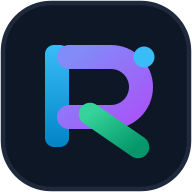
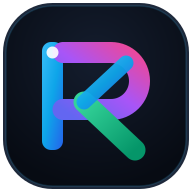
Deploy master R-K interlocking reverse loop brand identity and vector assets

diff --git a/src/components/Chrome.jsx b/src/components/Chrome.jsx
@@ -4,11 +4,12 @@ import { href } from '../lib/catalog';
 export function Logo() {
   return <>
     <span className="logo-symbol" aria-hidden="true">
-      <svg viewBox="0 0 32 32" width="28" height="28" fill="none">
-        <rect x="6" y="6" width="4" height="20" rx="1.5" fill="#38bdf8"/>
-        <path d="M10 9h8a5.5 5.5 0 0 1 0 11H10" stroke="#818cf8" strokeWidth="4" strokeLinecap="round" strokeLinejoin="round"/>
-        <path d="m14 19 8.5 7" stroke="#34d399" strokeWidth="3.8" strokeLinecap="round"/>
-        <circle cx="23.5" cy="9" r="1.8" fill="#38bdf8"/>
+      <svg viewBox="0 0 128 128" width="28" height="28" fill="none">
+        <rect x="26" y="26" width="15" height="76" rx="7" fill="#38bdf8"/>
+        <path d="M41 34h33a20 20 0 0 1 0 40H41" stroke="#818cf8" strokeWidth="15" strokeLinecap="round" strokeLinejoin="round"/>
+        <path d="m56 70 36 34" stroke="#34d399" strokeWidth="15" strokeLinecap="round"/>
+        <path d="m56 70 30-28" stroke="#38bdf8" strokeWidth="11" strokeLinecap="round" opacity="0.95"/>
+        <circle cx="33.5" cy="33.5" r="4.5" fill="#ffffff" opacity="0.95"/>
       </svg>
     </span>
     <span>Rev<span className="brand-kit">Kit</span><span className="brand-domain">.online</span></span>
